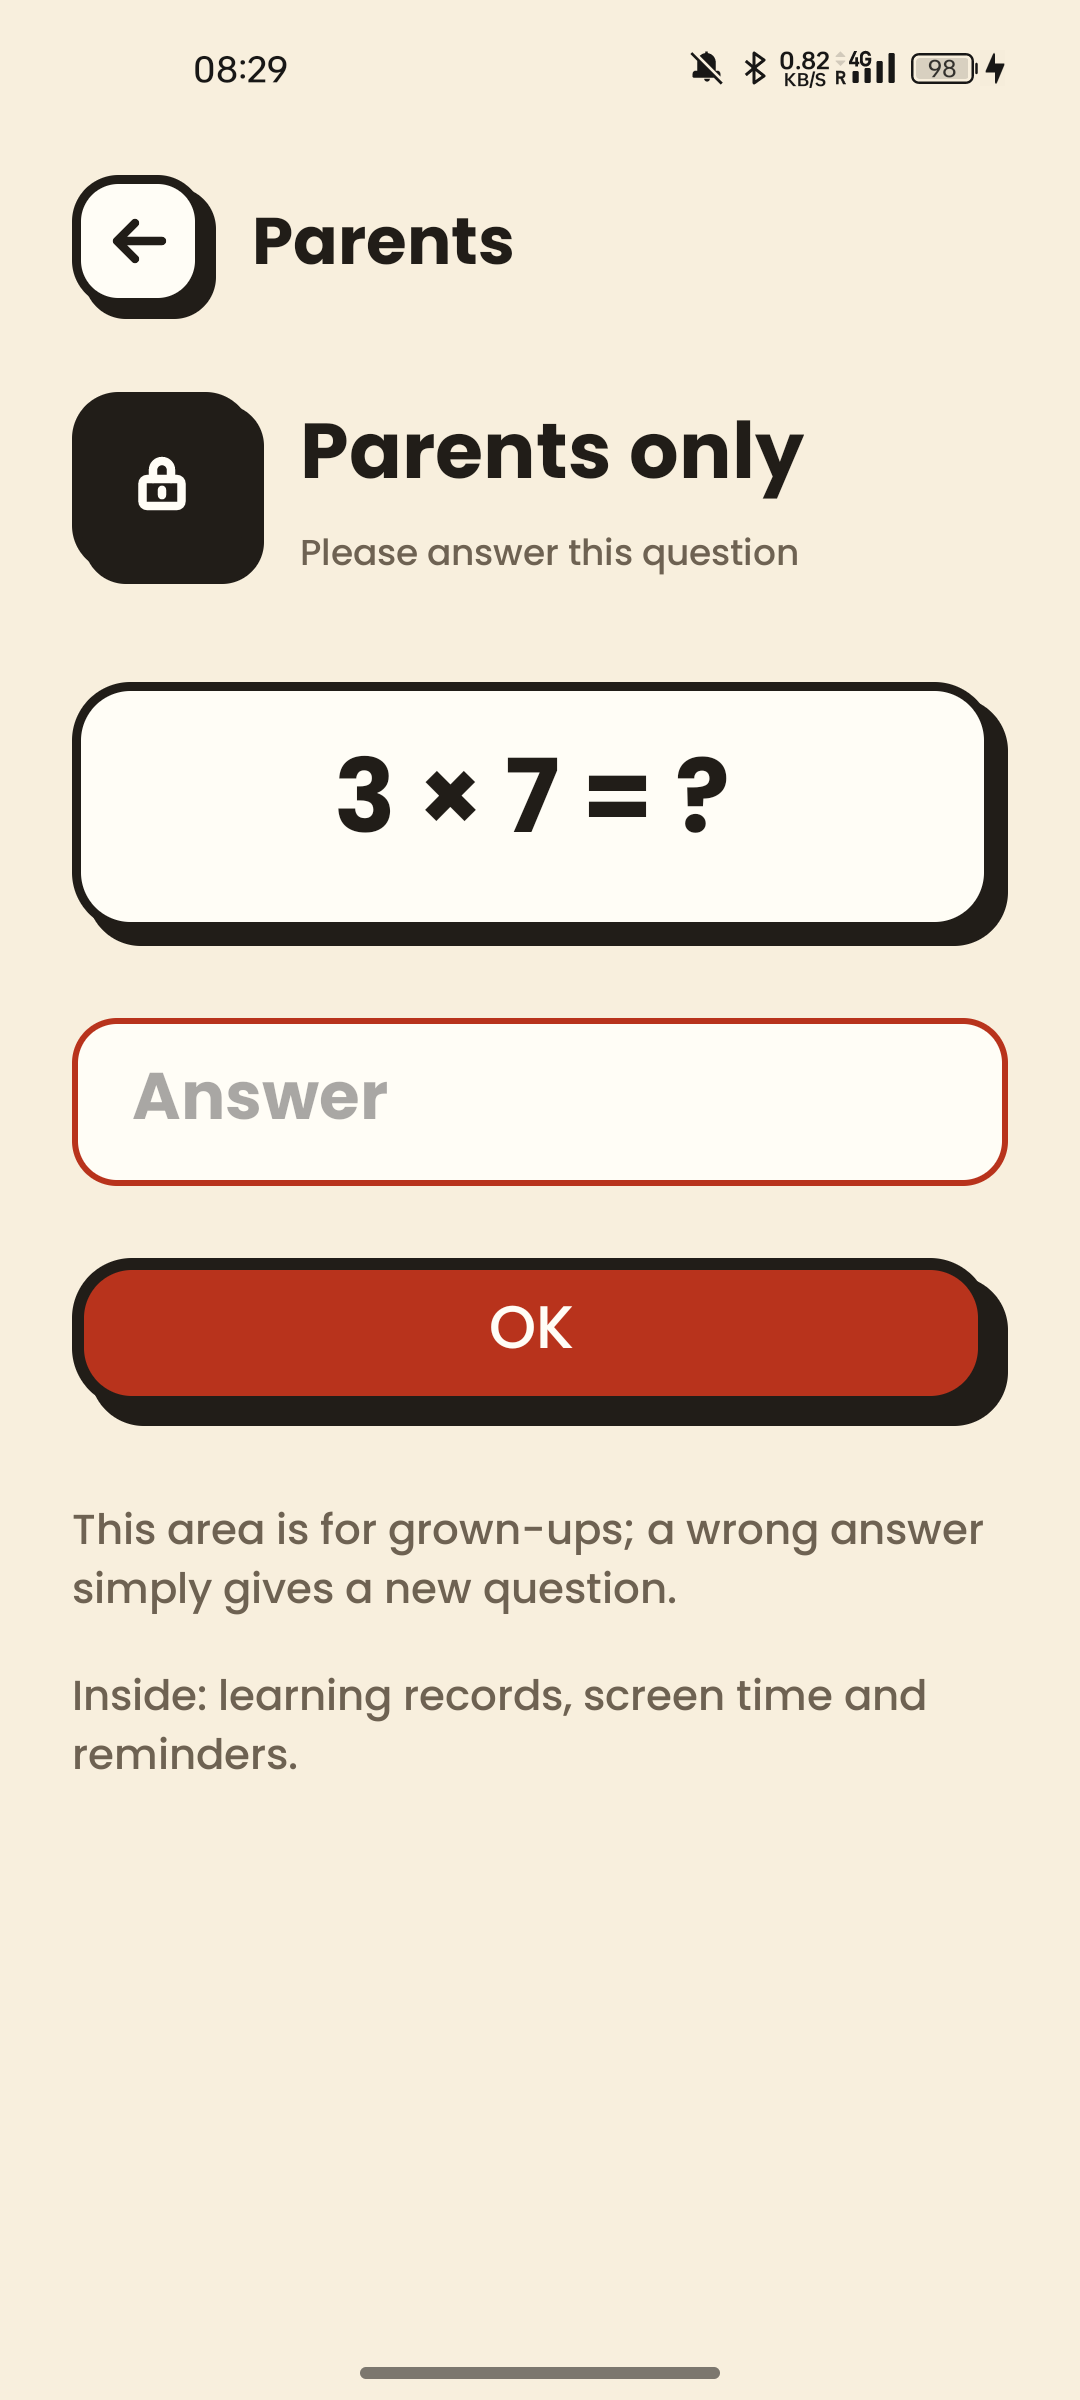
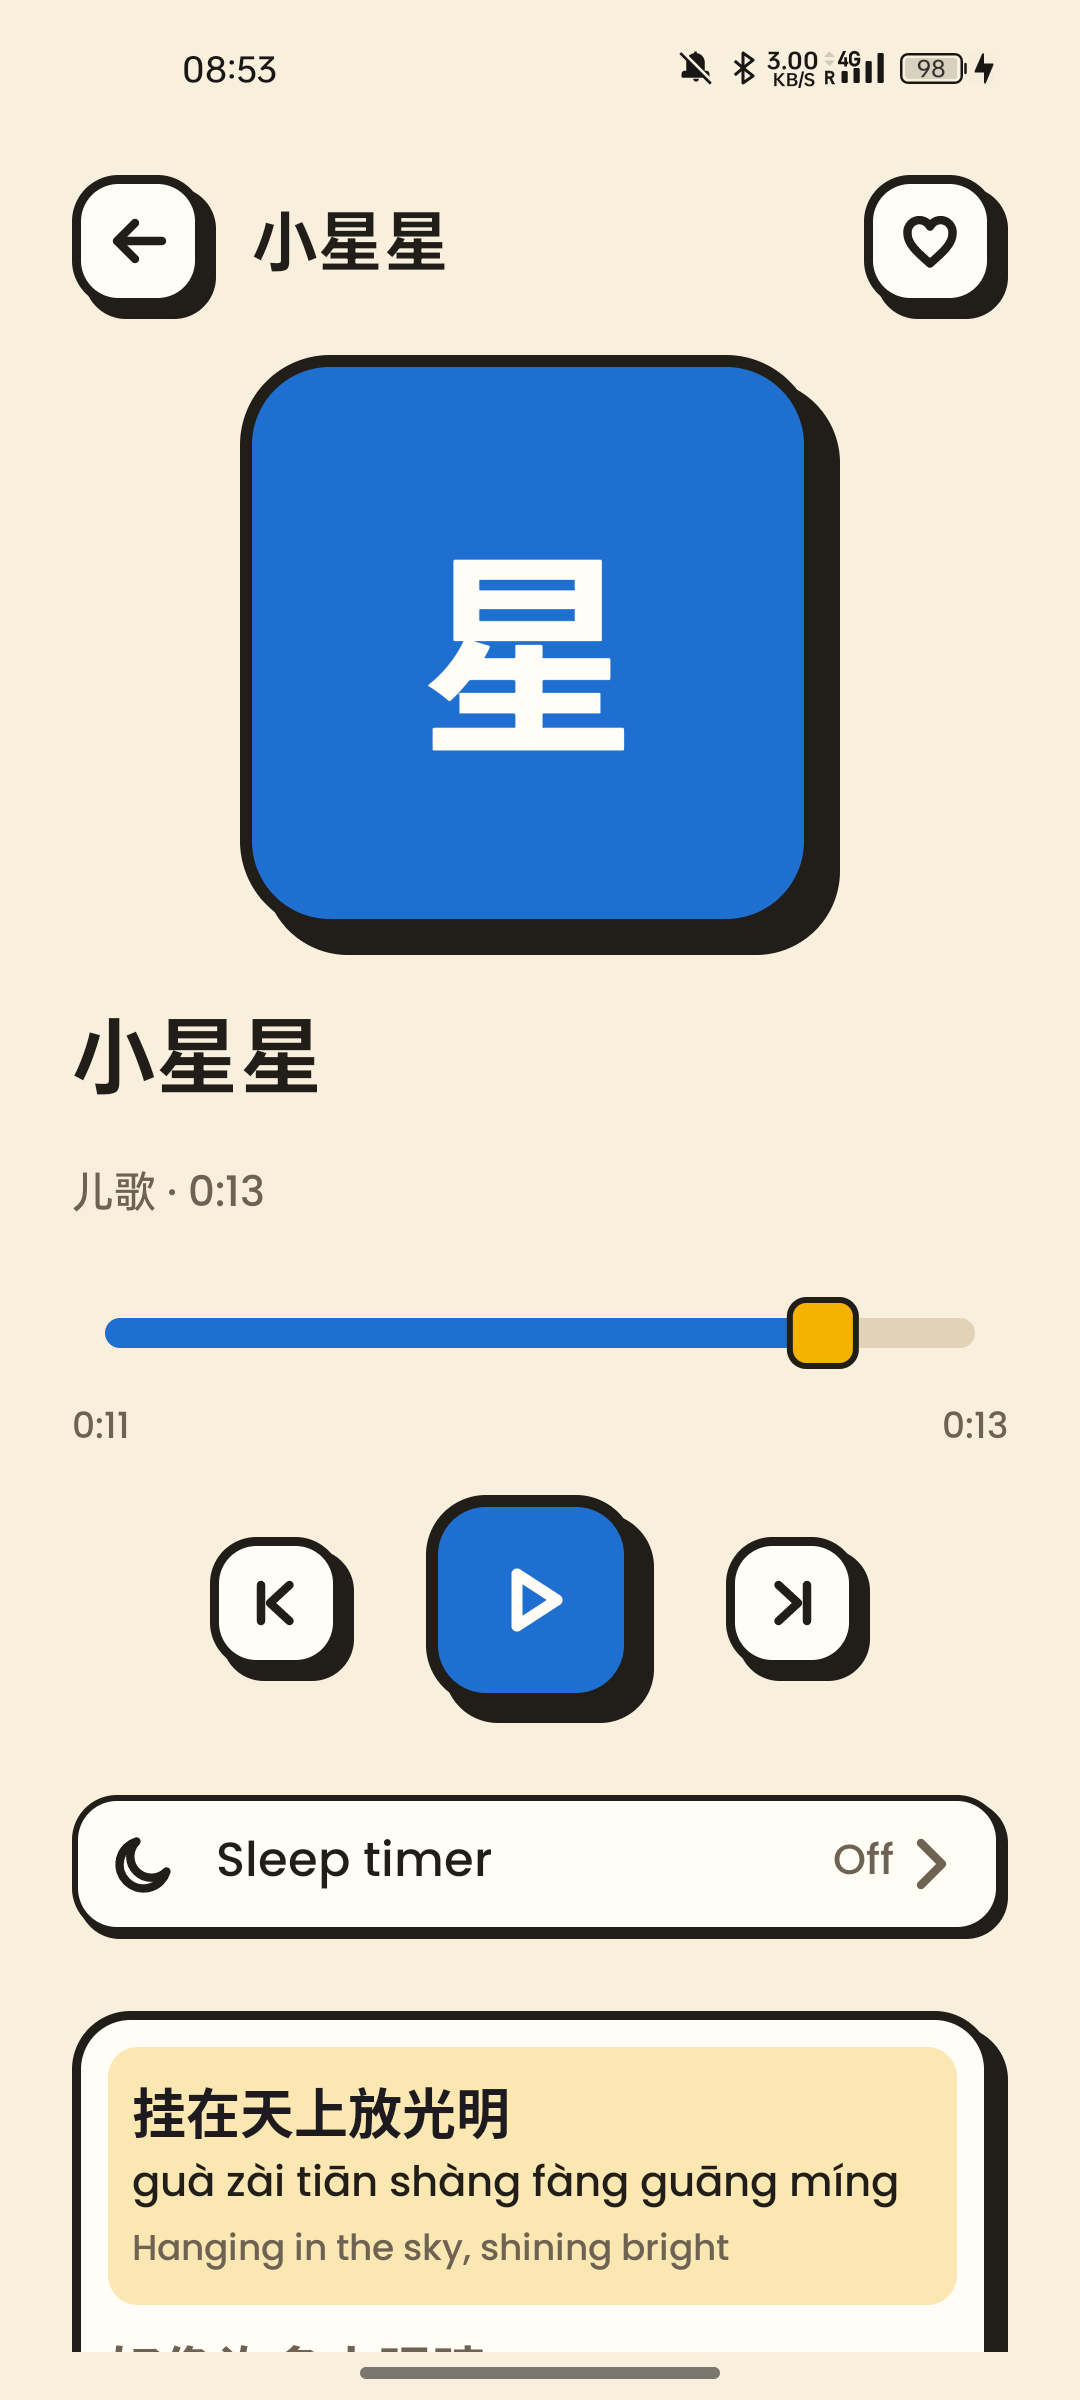
D31: 家长验证改 PIN 登录——引导新增第 2 步设置 4 位 PIN、Gate 改 numberPassword、旧安装首次进入即创建；删 ParentChallenge

diff --git a/app/src/main/java/com/littlestar/app/feature/parent/ParentGateActivity.java b/app/src/main/java/com/littlestar/app/feature/parent/ParentGateActivity.java
@@ -7,17 +7,17 @@ import android.view.inputmethod.EditorInfo;
 
 import androidx.annotation.Nullable;
 
+import com.littlestar.app.R;
 import com.littlestar.app.core.ui.Insets;
 import com.littlestar.app.core.ui.Motion;
 import com.littlestar.app.core.ui.ParentActivity;
 import com.littlestar.app.databinding.ActivityParentGateBinding;
-import com.littlestar.app.domain.ParentChallenge;
-
-import java.util.Random;
 
 /**
- * 家长验证（§7.12 / §9.12）：两位数进位加法 / 一位数乘法。
- * 答错抖动 + 清空 + 换新题，不锁定；答对 → target 并 finish 自己。
+ * 家长验证（D31：PIN 登录取代算术题）。
+ * 已设 PIN → 输入验证，错了抖动 + 清空，不锁定；
+ * 未设 PIN（旧数据/跳过引导）→ 首次进入即创建（4 位数字）。
+ * 通过 → target 并 finish 自己。
  */
 public final class ParentGateActivity extends ParentActivity {
 
@@ -35,8 +35,7 @@ public final class ParentGateActivity extends ParentActivity {
     }
 
     private ActivityParentGateBinding binding;
-    private ParentChallenge challenge;
-    private ParentChallenge.Challenge current;
+    private boolean createMode;
 
     @Override
     protected void onCreate(@Nullable Bundle savedInstanceState) {
@@ -45,8 +44,9 @@ public final class ParentGateActivity extends ParentActivity {
         setContentView(binding.getRoot());
         Insets.applySystemBarPadding(binding.getRoot());
 
-        challenge = new ParentChallenge(new Random());
-        nextQuestion();
+        createMode = !container().settings.isPinSet();
+        binding.questionText.setText(createMode
+                ? R.string.pg_pin_create : R.string.pg_pin_prompt);
 
         binding.btnBack.setOnClickListener(v -> finish());
         binding.btnConfirm.setOnClickListener(v -> submit());
@@ -59,24 +59,26 @@ public final class ParentGateActivity extends ParentActivity {
         });
     }
 
-    private void nextQuestion() {
-        current = challenge.next();
-        binding.questionText.setText(current.questionText());
-    }
-
     private void submit() {
-        String input = binding.answerInput.getText().toString();
-        if (ParentChallenge.check(input, current)) {
-            dispatch();
-        } else {
-            // 答错：抖动 + 清空 + 换新题，不锁定
+        String input = binding.answerInput.getText().toString().trim();
+        if (input.length() != 4) {
             Motion.shake(binding.answerInput);
             binding.answerInput.setText("");
-            nextQuestion();
+            return;
+        }
+        if (createMode) {
+            container().settings.setParentPin(input);
+            dispatch();
+        } else if (input.equals(container().settings.getParentPin())) {
+            dispatch();
+        } else {
+            // 错了：抖动 + 清空，不锁定
+            Motion.shake(binding.answerInput);
+            binding.answerInput.setText("");
         }
     }
 
-    /** 答对 → target（默认 Dashboard），finish 自己（§5.3）。 */
+    /** 通过 → target（默认 Dashboard），finish 自己（§5.3）。 */
     private void dispatch() {
         String target = getIntent().getStringExtra(EXTRA_TARGET);
         Class<? extends Activity> dest;

diff --git a/app/src/main/java/com/littlestar/app/data/prefs/SettingsStore.java b/app/src/main/java/com/littlestar/app/data/prefs/SettingsStore.java
@@ -28,6 +28,7 @@ public final class SettingsStore {
         public static final String NOTIF_RATIONALE_SHOWN = "notif_rationale_shown";
         public static final String SOUND_ENABLED = "sound_enabled";
         public static final String ENGLISH_HINT = "english_hint";
+        public static final String PARENT_PIN = "parent_pin";
 
         private Keys() {
         }
@@ -150,6 +151,22 @@ public final class SettingsStore {
 
     public void setEnglishHint(boolean show) {
         prefs.edit().putBoolean(Keys.ENGLISH_HINT, show).apply();
+    }
+
+    /** 家长密码（D31：PIN 登录取代算术验证，引导时设置）。 */
+    public boolean isPinSet() {
+        String pin = prefs.getString(Keys.PARENT_PIN, "");
+        return pin != null && pin.length() == 4;
+    }
+
+    @NonNull
+    public String getParentPin() {
+        String pin = prefs.getString(Keys.PARENT_PIN, "");
+        return pin == null ? "" : pin;
+    }
+
+    public void setParentPin(@NonNull String pin) {
+        prefs.edit().putString(Keys.PARENT_PIN, pin).apply();
     }
 
     /**

diff --git a/app/src/main/java/com/littlestar/app/feature/home/HomeActivity.java b/app/src/main/java/com/littlestar/app/feature/home/HomeActivity.java
@@ -225,7 +225,19 @@ public final class HomeActivity extends ChildActivity {
         selectGoal(obGoal, goalChips, goals);
 
         binding.onboarding.obNext.setOnClickListener(v -> {
+            // 第一步 → 第二步（家长 PIN，D31）
             binding.onboarding.obStep1.setVisibility(View.GONE);
+            binding.onboarding.obStepPin.setVisibility(View.VISIBLE);
+        });
+        binding.onboarding.obPinNext.setOnClickListener(v -> {
+            // 第二步 → 第三步（提醒）；PIN 必须 4 位数字
+            String pin = binding.onboarding.obPinInput.getText().toString().trim();
+            if (pin.length() != 4) {
+                Motion.shake(binding.onboarding.obPinInput);
+                return;
+            }
+            container().settings.setParentPin(pin);
+            binding.onboarding.obStepPin.setVisibility(View.GONE);
             binding.onboarding.obStep2.setVisibility(View.VISIBLE);
             binding.onboarding.obNotifyDesc.setText(getString(R.string.ob_notify_desc, obGoal));
         });

diff --git a/docs/DECISIONS.md b/docs/DECISIONS.md
@@ -161,3 +161,8 @@
   2. **教学内容 = 中文为主。** 汉字大字、拼音、主题中文名、文化条目标题、歌词保持中文（这是被学的内容），英文以 gloss/副标题辅助。
   3. **标识性字形保留中文**：「字/文」切换、印章「会」、分类字形块（儿/故/诗）——它们是「汉字积木」的视觉语言，不承担阅读任务。
 - 配套：TextAppearance 的 Display/Title/Headline/Body/Caption 改用 Poppins（latin 字族），汉字外观不变。
+
+## D31 · 2026-10-22 · 家长验证改为 PIN 密码（用户需求，取代工程文档 §7.7 算术题）
+- 问题：用户要求家长区改为密码登录，密码在首次引导时设置。
+- 做法：引导从 2 步变 3 步（年龄目标 → 设 4 位 PIN → 提醒）；PIN 存 SettingsStore（parent_pin）；ParentGate 改为 numberPassword 输入，错误抖动清空不锁定；旧安装（未设 PIN）首次进 Gate 时引导创建 PIN。ParentChallenge 类与其单测删除。
+- 理由：用户明确需求；算术题对会算数的二孩无阻隔作用，PIN 更直观。
